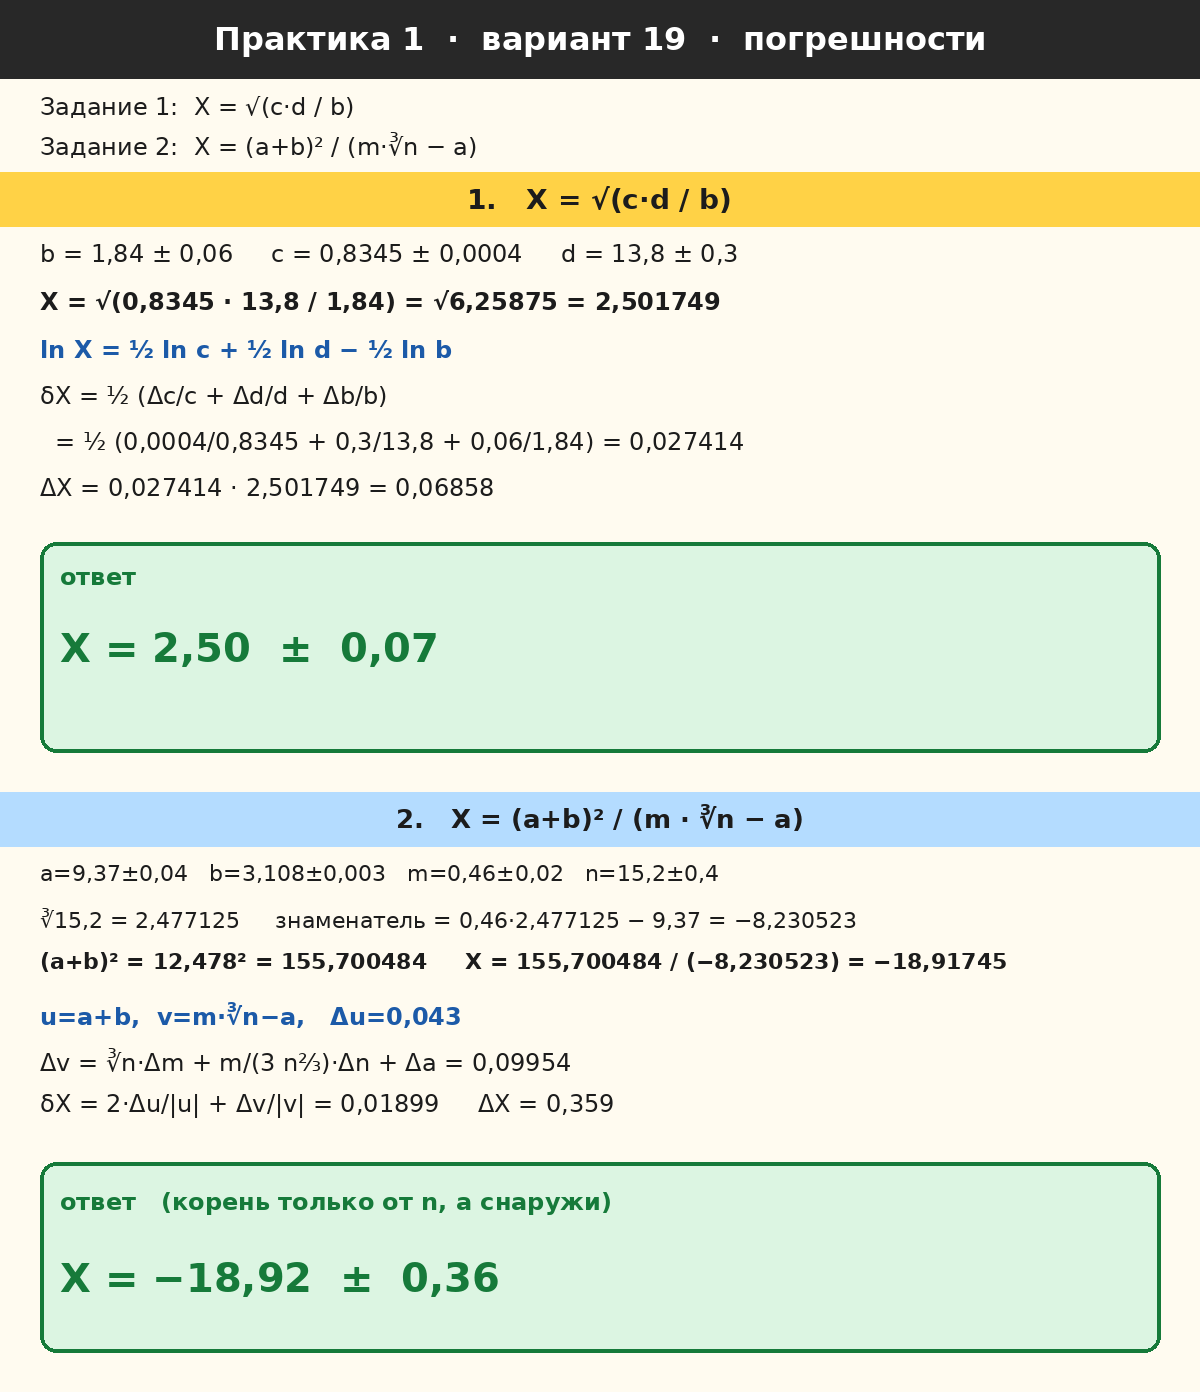
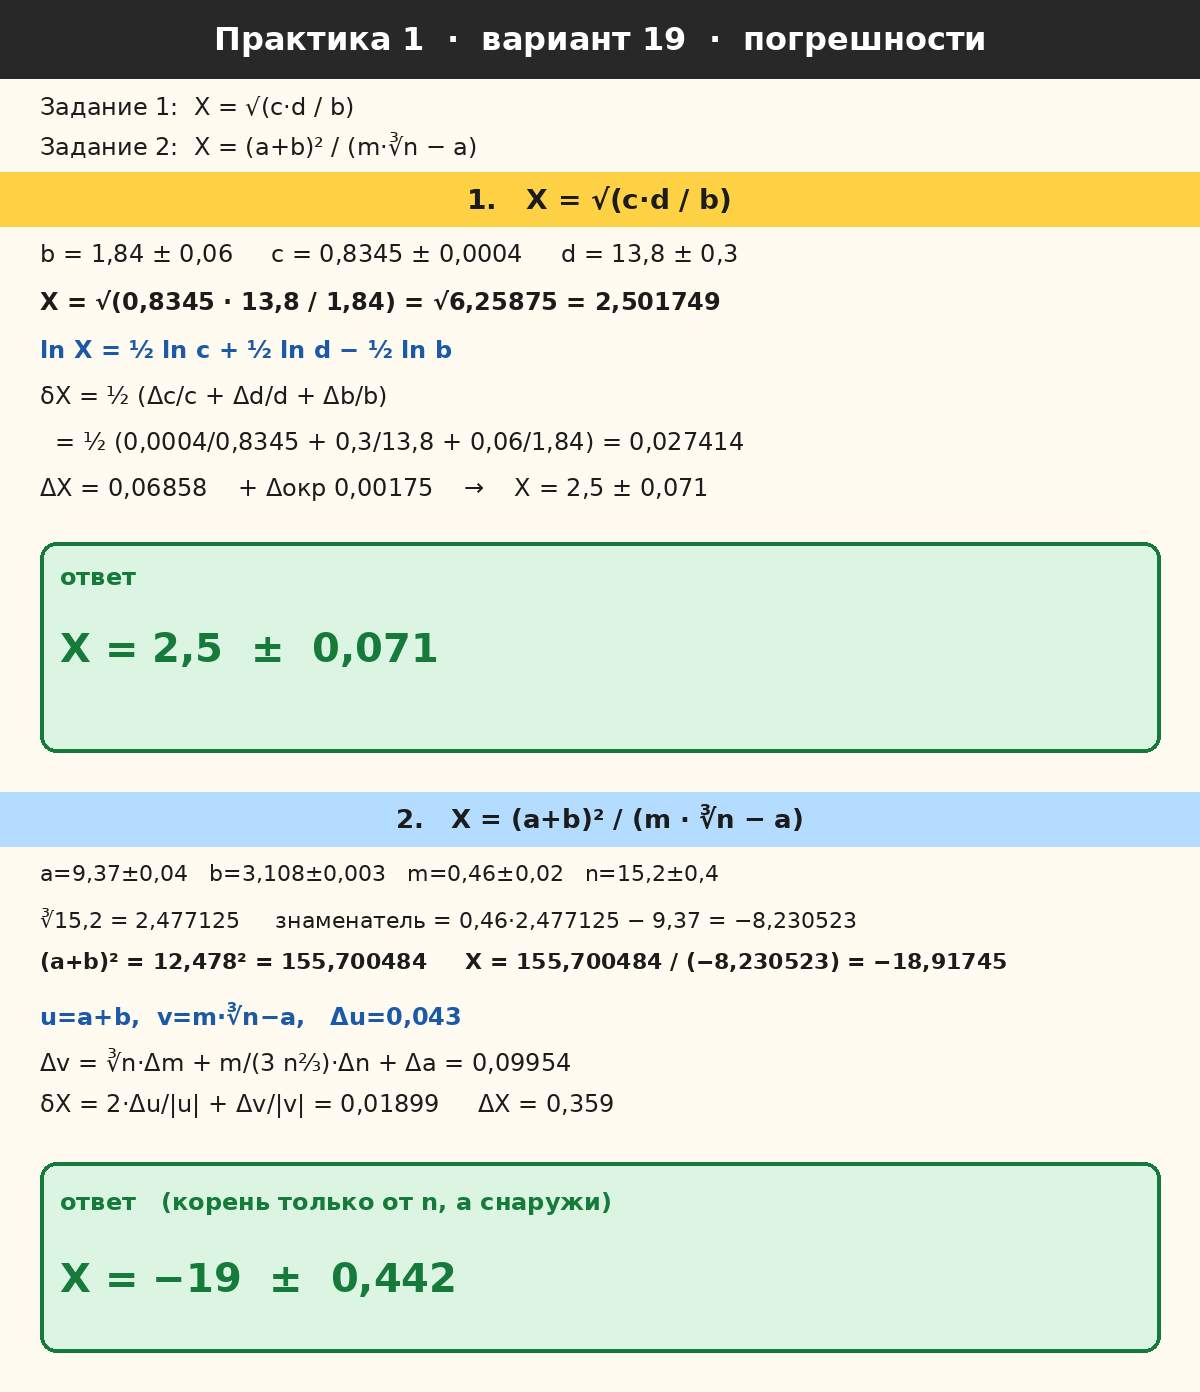
Rewrite practical 1 by the error and rounding method guides.
Build δ* from sum, product, quotient, power and root, then keep only correct digits and add the rounding error.

diff --git a/ucheba/praktiki_v19/render_pr1_tetrad.py b/ucheba/praktiki_v19/render_pr1_tetrad.py
@@ -1,5 +1,5 @@
 #!/usr/bin/env python3
-"""Практическая 1, вариант 19 — оформление как в тетради с фото."""
+"""Практическая 1, вариант 19 — по методичкам: действия и верные цифры."""
 
 from pathlib import Path
 
@@ -15,9 +15,9 @@ MARGIN = (214, 150, 150)
 INK = (28, 28, 28)
 GREEN = (22, 122, 58)
 BLUE = (28, 90, 168)
-W = 1100
-STEP = 40
-LEFT = 88
+W = 1240
+STEP = 42
+LEFT = 92
 
 
 def F(sz, bold=False):
@@ -32,88 +32,114 @@ def notebook(rows):
         d.line([(x, 0), (x, h)], fill=GRID, width=1)
     for y in range(0, h, STEP):
         d.line([(0, y), (W, y)], fill=GRID, width=1)
-    d.line([(64, 0), (64, h)], fill=MARGIN, width=2)
+    d.line([(68, 0), (68, h)], fill=MARGIN, width=2)
     return im, d
 
 
-def write(d, row, s, sz=24, fill=INK, bold=False):
-    d.text((LEFT, row * STEP + 7), s, font=F(sz, bold), fill=fill)
+def write(d, row, s, sz=22, fill=INK, bold=False):
+    d.text((LEFT, row * STEP + 8), s, font=F(sz, bold), fill=fill)
+
+
+def answer(d, row, s):
+    y = row * STEP + 4
+    d.rounded_rectangle(
+        [LEFT - 16, y, W - 48, y + STEP + 8],
+        radius=12,
+        fill=(220, 245, 226),
+        outline=GREEN,
+        width=3,
+    )
+    d.text((LEFT, y + 8), s, font=F(28, True), fill=GREEN)
 
 
 def sheet_z1():
-    im, d = notebook(28)
-    write(d, 1, "Практическая работа № 1", 26, bold=True)
-    write(d, 2, "Тема:  Погрешности вычислений", 24)
-    write(d, 3, "Вариант  19", 24)
+    im, d = notebook(40)
+    write(d, 1, "Практическая работа № 1", 28, bold=True)
+    write(d, 2, "Тема:  Погрешности вычислений", 22)
+    write(d, 3, "Вариант  19", 22)
 
-    write(d, 5, "Задание 1:", 26, BLUE, True)
-    write(d, 6, "X  =  √(c · d / b)", 28, bold=True)
+    write(d, 5, "Задание 1", 26, BLUE, True)
+    write(d, 6, "X  =  √( c · d  /  b )", 26, bold=True)
+    write(d, 8, "b  =  1,84  ±  0,06", 22)
+    write(d, 9, "c  =  0,8345  ±  0,0004", 22)
+    write(d, 10, "d  =  13,8  ±  0,3", 22)
 
-    write(d, 8, "b  =  1,84  ±  0,06", 24)
-    write(d, 9, "c  =  0,8345  ±  0,0004", 24)
-    write(d, 10, "d  =  13,8  ±  0,3", 24)
+    write(d, 12, "Значение", 22, BLUE, True)
+    write(d, 13, "c · d  =  0,8345 · 13,8  =  11,5161", 22)
+    write(d, 14, "c · d / b  =  11,5161 / 1,84  =  6,25875", 22)
+    write(d, 15, "X  =  √6,25875  =  2,501749", 22, bold=True)
 
-    write(d, 12, "X  =  √(0,8345 · 13,8 / 1,84)  =  √6,25875  =  2,501749", 22, bold=True)
+    write(d, 17, "Погрешность по действиям", 22, BLUE, True)
+    write(d, 18, "произведение:   δ*(c·d)  =  δ*c + δ*d", 22)
+    write(d, 19, "частное:   δ*(c·d / b)  =  δ*c + δ*d + δ*b", 22)
+    write(d, 20, "корень:   δ*X  =  (1/2) · (δ*c + δ*d + δ*b)", 22, bold=True)
 
-    write(d, 14, "δX  =  ½ δc  +  ½ δd  +  ½ δb  =", 24)
-    write(d, 15, "     =  Δc/(2|c|)  +  Δd/(2|d|)  +  Δb/(2|b|)  =", 24)
-    write(d, 16, "     =  0,0004/(2·0,8345)  +  0,3/(2·13,8)  +  0,06/(2·1,84)  =", 21)
-    write(d, 17, "     =  0,000240  +  0,010870  +  0,016304  =  0,027414", 22)
+    write(d, 22, "δ*c  =  0,0004 / 0,8345  =  0,000479", 22)
+    write(d, 23, "δ*d  =  0,3 / 13,8  =  0,021739", 22)
+    write(d, 24, "δ*b  =  0,06 / 1,84  =  0,032609", 22)
+    write(d, 25, "сумма  =  0,054827", 22)
+    write(d, 26, "δ*X  =  0,054827 / 2  =  0,027414", 22, bold=True)
+    write(d, 27, "δ*X  ≈  2,74 %", 22, bold=True)
+    write(d, 29, "Δ*X  =  δ*X · |X|  =  0,027414 · 2,501749  =  0,06858", 22)
 
-    write(d, 19, "≈  2,7 %", 24, bold=True)
-
-    write(d, 21, "ΔX  =  0,027414 · 2,501749  =  0,06858", 24)
-    write(d, 22, "округляем ΔX с избытком:   0,07", 24)
-    write(d, 23, "X округляем до того же знака", 22)
-
-    write(d, 25, "X  =  2,50  ±  0,07", 30, GREEN, True)
-    return im.crop((0, 0, W, 27 * STEP))
+    write(d, 31, "Верные цифры:  Δ*X ≤ 0,1  и  Δ*X > 0,01  →  две", 22)
+    write(d, 32, "Округление до 2,5.  Правило II: отбрасываем 0 < 5", 22)
+    write(d, 33, "Δокр  =  |2,501749 − 2,5|  =  0,00175", 22)
+    write(d, 34, "Δ*  =  Δ*X + Δокр  =  0,06858 + 0,00175  =  0,07033", 22)
+    answer(d, 36, "X  =  2,5  ±  0,071")
+    return im.crop((0, 0, W, 38 * STEP))
 
 
 def sheet_z2():
-    im, d = notebook(38)
-    write(d, 1, "Практическая работа № 1", 26, bold=True)
-    write(d, 2, "Тема:  Погрешности вычислений", 24)
-    write(d, 3, "Вариант  19", 24)
+    im, d = notebook(52)
+    write(d, 1, "Практическая работа № 1", 28, bold=True)
+    write(d, 2, "Тема:  Погрешности вычислений", 22)
+    write(d, 3, "Вариант  19", 22)
 
-    write(d, 5, "Задание 2:", 26, BLUE, True)
-    write(d, 6, "X  =  (a + b)²  /  (m · ∛n  −  a)", 26, bold=True)
-    write(d, 7, "корень только от n,   a снаружи", 20, BLUE)
+    write(d, 5, "Задание 2", 26, BLUE, True)
+    write(d, 6, "X  =  (a + b)²  /  ( m · ∛n  −  a )", 24, bold=True)
+    write(d, 7, "корень только над n", 20, BLUE)
 
-    write(d, 8, "a  =  9,37  ±  0,04", 24)
-    write(d, 9, "b  =  3,108  ±  0,003", 24)
-    write(d, 10, "m  =  0,46  ±  0,02", 24)
-    write(d, 11, "n  =  15,2  ±  0,4", 24)
+    write(d, 8, "a = 9,37 ± 0,04     b = 3,108 ± 0,003", 22)
+    write(d, 9, "m = 0,46 ± 0,02     n = 15,2 ± 0,4", 22)
 
-    write(d, 13, "∛n  =  ∛15,2  =  2,477125", 24)
-    write(d, 14, "a + b  =  12,478      (a + b)²  =  155,700484", 24)
-    write(d, 15, "m · ∛n − a  =  0,46 · 2,477125 − 9,37  =  −8,230523", 22)
-    write(d, 16, "X  =  155,700484 / (−8,230523)  =  −18,91745", 24, bold=True)
+    write(d, 11, "Значение", 22, BLUE, True)
+    write(d, 12, "a + b  =  12,478          (a + b)²  =  155,700484", 22)
+    write(d, 13, "∛n  =  ∛15,2  =  2,477125", 22)
+    write(d, 14, "m · ∛n  =  0,46 · 2,477125  =  1,139477", 22)
+    write(d, 15, "m · ∛n − a  =  1,139477 − 9,37  =  −8,230523", 22)
+    write(d, 16, "X  =  155,700484 / (−8,230523)  =  −18,91745", 22, bold=True)
 
-    write(d, 18, "u = a+b,     v = m·∛n − a,     X = u² / v", 24, BLUE, True)
-    write(d, 19, "δX  =  2 δu  +  δv  =  2 Δu/|u|  +  Δv/|v|", 24)
+    write(d, 18, "Погрешность по действиям", 22, BLUE, True)
+    write(d, 19, "сумма:   Δ*(a+b)  =  Δ*a + Δ*b  =  0,043", 22)
+    write(d, 20, "δ*(a+b)  =  0,043 / 12,478  =  0,003446", 22)
+    write(d, 21, "степень:   δ*((a+b)²)  =  2 · 0,003446  =  0,006892", 22)
 
-    write(d, 21, "Δu  =  Δa + Δb  =  0,04 + 0,003  =  0,043", 24)
-    write(d, 22, "Δv  =  ∛n·Δm  +  m/(3 n⅔)·Δn  +  Δa  =", 24)
-    write(d, 23, "     =  2,477125·0,02  +  0,46/(3·6,136147)·0,4  +  0,04  =", 21)
-    write(d, 24, "     =  0,049542  +  0,009995  +  0,04  =  0,09954", 22)
+    write(d, 23, "δ*n  =  0,4 / 15,2  =  0,026316", 22)
+    write(d, 24, "корень:   δ*(∛n)  =  0,026316 / 3  =  0,008772", 22)
+    write(d, 25, "δ*m  =  0,02 / 0,46  =  0,043478", 22)
+    write(d, 26, "произведение:   δ*(m·∛n)  =  0,043478 + 0,008772  =  0,052250", 21)
+    write(d, 27, "Δ*(m·∛n)  =  0,052250 · 1,139477  =  0,05954", 22)
+    write(d, 28, "разность:   Δ*(m·∛n − a)  =  0,05954 + 0,04  =  0,09954", 22)
+    write(d, 29, "δ*(m·∛n − a)  =  0,09954 / 8,230523  =  0,012094", 22)
 
-    write(d, 26, "δX  =  2·0,043/12,478  +  0,09954/8,230523  =  0,01899", 22)
-    write(d, 27, "≈  1,9 %", 24, bold=True)
+    write(d, 31, "частное:   δ*X  =  0,006892 + 0,012094  =  0,018986", 22, bold=True)
+    write(d, 32, "δ*X  ≈  1,90 %", 22, bold=True)
+    write(d, 33, "Δ*X  =  0,018986 · 18,91745  =  0,35916", 22)
 
-    write(d, 29, "ΔX  =  0,01899 · 18,91745  =  0,359", 24)
-    write(d, 30, "округляем ΔX с избытком:   0,36", 24)
-    write(d, 31, "X округляем до того же знака", 22)
-
-    write(d, 33, "X  =  −18,92  ±  0,36", 30, GREEN, True)
-    return im.crop((0, 0, W, 35 * STEP))
+    write(d, 35, "Верные цифры:  Δ*X ≤ 1  и  Δ*X > 0,1  →  две", 22)
+    write(d, 36, "Округление до −19.  Правило I: отбрасываем 9 > 5", 22)
+    write(d, 37, "Δокр  =  |−18,91745 − (−19)|  =  0,08255", 22)
+    write(d, 38, "Δ*  =  0,35916 + 0,08255  =  0,44171", 22)
+    answer(d, 40, "X  =  −19  ±  0,442")
+    return im.crop((0, 0, W, 42 * STEP))
 
 
 def main():
-    p1 = OUT / "pr1_zadanie1.png"
-    p2 = OUT / "pr1_zadanie2.png"
     z1 = sheet_z1()
     z2 = sheet_z2()
+    p1 = OUT / "pr1_zadanie1.png"
+    p2 = OUT / "pr1_zadanie2.png"
     z1.save(p1, "PNG", optimize=True)
     z2.save(p2, "PNG", optimize=True)
     print(p1, z1.size)

diff --git a/ucheba/praktiki_v19/render_paint.py b/ucheba/praktiki_v19/render_paint.py
@@ -123,10 +123,10 @@ def sheet_pr1():
     txt(d, (40, 168), "ln X = ½ ln c + ½ ln d − ½ ln b", 24, BLUE, True)
     txt(d, (40, 214), "δX = ½ (Δc/c + Δd/d + Δb/b)", 24)
     txt(d, (40, 260), "  = ½ (0,0004/0,8345 + 0,3/13,8 + 0,06/1,84) = 0,027414", 24)
-    txt(d, (40, 306), "ΔX = 0,027414 · 2,501749 = 0,06858", 24)
+    txt(d, (40, 306), "ΔX = 0,06858    + Δокр 0,00175    →    X = 2,5 ± 0,071", 24)
     d.rounded_rectangle([40, 370, 1160, 580], radius=16, fill=PAPER_G, outline=GREEN, width=4)
     txt(d, (60, 400), "ответ", 24, GREEN, True)
-    txt(d, (60, 460), "X = 2,50  ±  0,07", 40, GREEN, True)
+    txt(d, (60, 460), "X = 2,5  ±  0,071", 40, GREEN, True)
     parts.append(im)
 
     im = new_im(600)
@@ -138,10 +138,10 @@ def sheet_pr1():
     txt(d, (40, 160), "(a+b)² = 12,478² = 155,700484     X = 155,700484 / (−8,230523) = −18,91745", 22, bold=True)
     txt(d, (40, 210), "u=a+b,  v=m·∛n−a,   Δu=0,043", 24, BLUE, True)
     txt(d, (40, 256), "Δv = ∛n·Δm + m/(3 n⅔)·Δn + Δa = 0,09954", 24)
-    txt(d, (40, 302), "δX = 2·Δu/|u| + Δv/|v| = 0,01899     ΔX = 0,359", 24)
+    txt(d, (40, 302), "ΔX = 0,35916 + Δокр 0,08255 = 0,44171    →    X = −19 ± 0,442", 22)
     d.rounded_rectangle([40, 370, 1160, 560], radius=16, fill=PAPER_G, outline=GREEN, width=4)
     txt(d, (60, 400), "ответ   (корень только от n, a снаружи)", 24, GREEN, True)
-    txt(d, (60, 470), "X = −18,92  ±  0,36", 40, GREEN, True)
+    txt(d, (60, 470), "X = −19  ±  0,442", 40, GREEN, True)
     parts.append(im)
     return stack(parts)
 

diff --git a/ucheba/praktiki_v19/VARIANT_19.md b/ucheba/praktiki_v19/VARIANT_19.md
@@ -38,7 +38,10 @@ X=\sqrt{\frac{0{,}8345\cdot 13{,}8}{1{,}84}}=\sqrt{6{,}25875}=2{,}501749.
 \Delta X=\delta X\cdot X=0{,}027414\cdot 2{,}501749=0{,}06858.
 \]
 
-**Ответ:** \(X=2{,}50\pm 0{,}07\).
+Две верные значащие цифры (\(\Delta X\le 0{,}1\)). Округление до \(2{,}5\) по правилу II.  
+\(\Delta_{\text{окр}}=0{,}00175\), \(\Delta^*=0{,}06858+0{,}00175=0{,}07033\).
+
+**Ответ:** \(X=2{,}5\pm 0{,}071\).
 
 ---
 
@@ -85,7 +88,10 @@ X=\frac{155{,}700484}{-8{,}230523}=-18{,}91745.
 \Delta X=\delta X\cdot|X|=0{,}359.
 \]
 
-**Ответ:** \(X=-18{,}92\pm 0{,}36\).
+Две верные значащие цифры (\(\Delta X\le 1\)). Округление до \(-19\) по правилу I.  
+\(\Delta_{\text{окр}}=0{,}08255\), \(\Delta^*=0{,}35916+0{,}08255=0{,}44171\).
+
+**Ответ:** \(X=-19\pm 0{,}442\).
 
 ---
 
@@ -284,8 +290,8 @@ I=\frac{0{,}05}{3}\cdot 24{,}476159=0{,}407936.
 
 | Работа | Задание | Ответ |
 |--------|---------|--------|
-| 1 | 1 | \(X=2{,}50\pm 0{,}07\) |
-| 1 | 2 | \(X=-18{,}92\pm 0{,}36\) |
+| 1 | 1 | \(X=2{,}5\pm 0{,}071\) |
+| 1 | 2 | \(X=-19\pm 0{,}442\) |
 | 2 | 1 | \(\xi_1=-1{,}046\); \(\xi_{2,3}=0{,}773\pm 1{,}330 i\) |
 | 2 | 2 | \(\xi=1{,}1098\) |
 | 5 | 1 | \(I\approx 0{,}23756\) |
